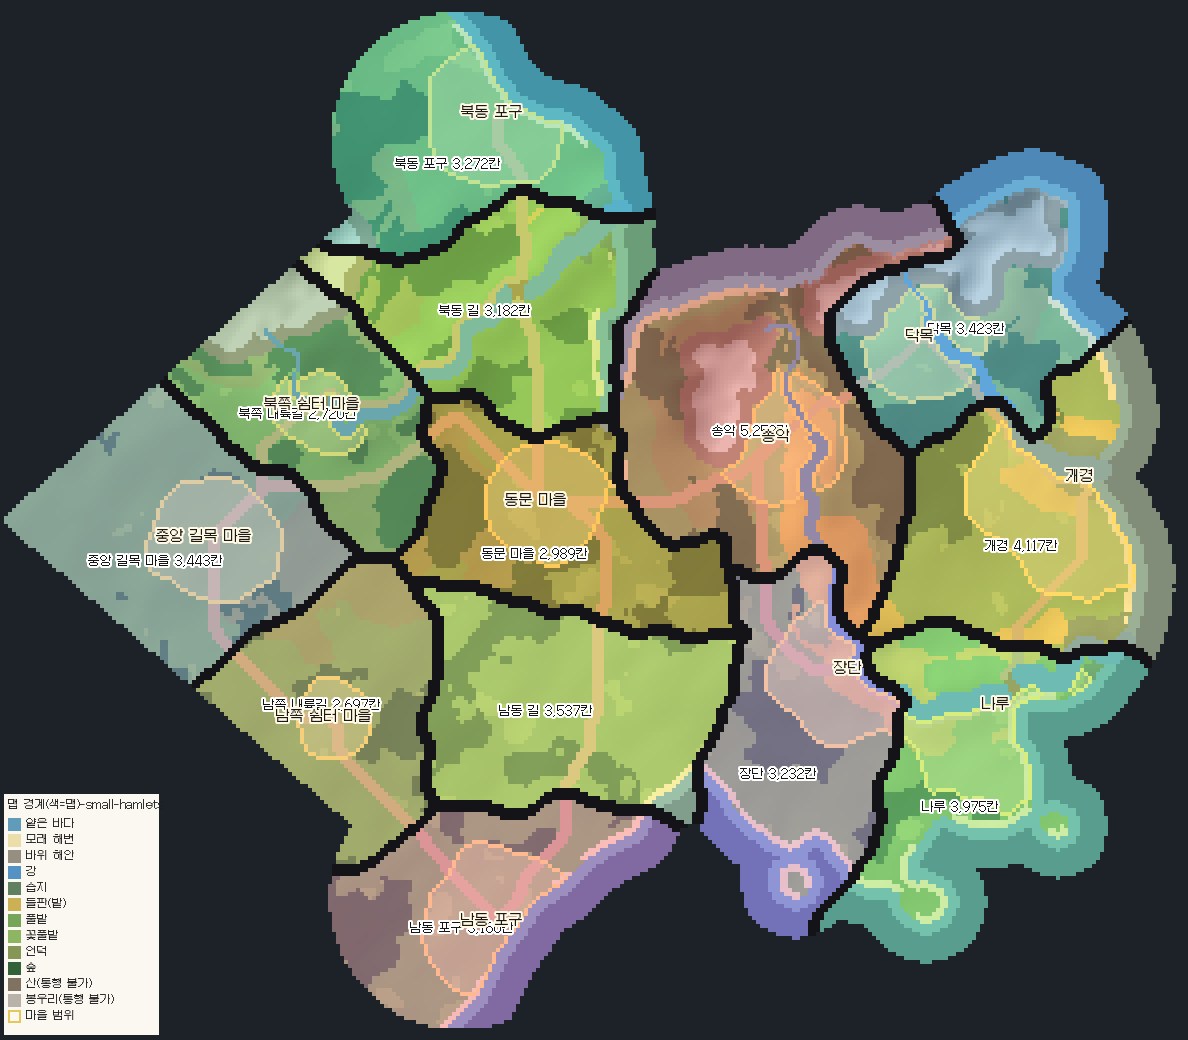
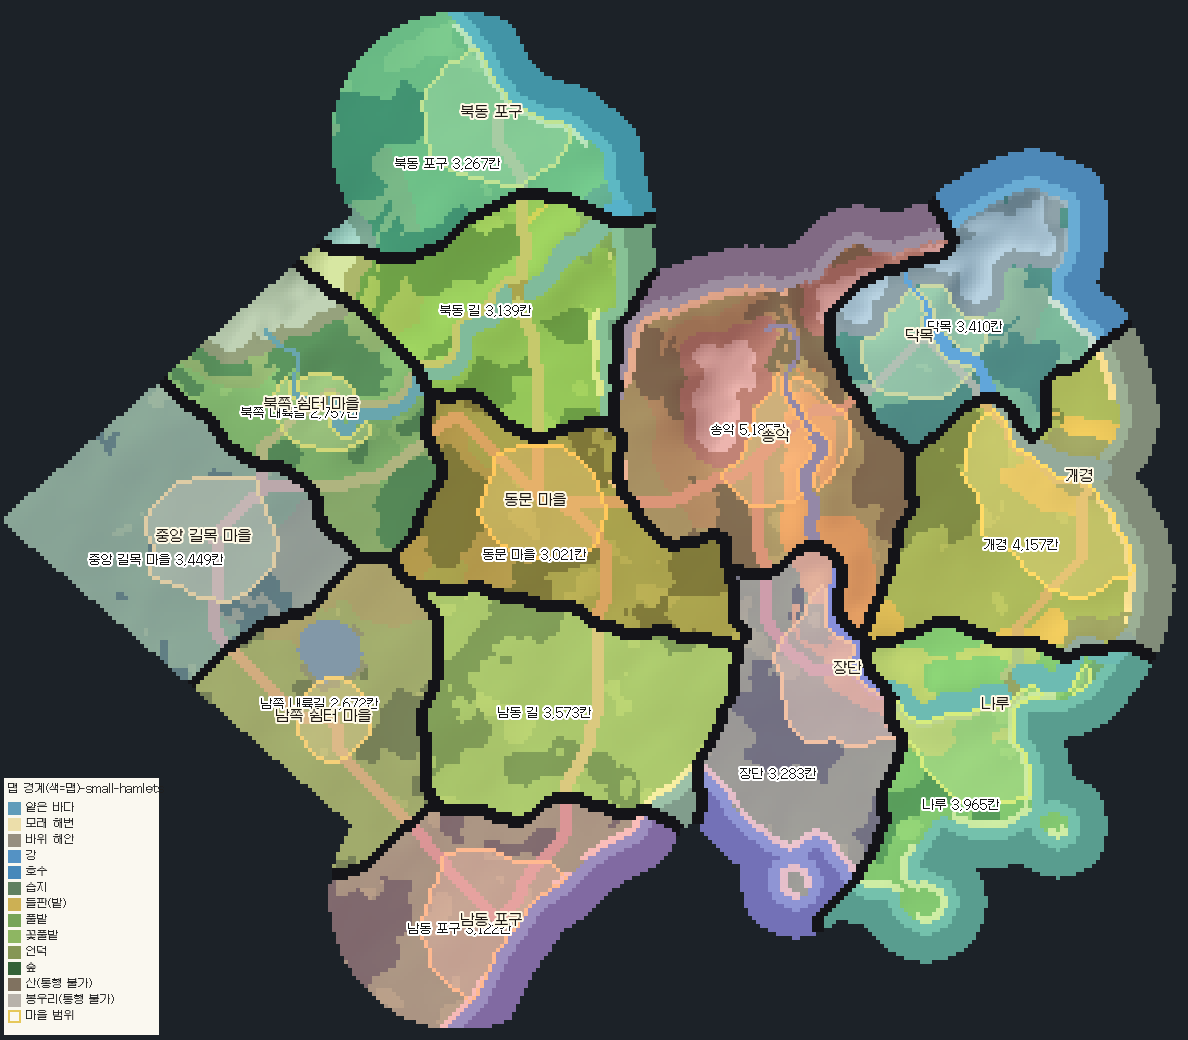
M1 v4: add lake north of south rest hamlet
Claude-Session: https://claude.ai/code/session_01LeGdCGGAkPbpRa1d2kF6Yd

diff --git a/Tools/WorldLayout/terrain_v3.py b/Tools/WorldLayout/terrain_v3.py
@@ -24,12 +24,14 @@ SEED=7
 X0,Y0,W,H=0,-130,300,260   # 배열 좌표: ix=x-X0, iy=y-Y0
 
 # 지형 종류
-VOID,DEEP,SHALLOW,SAND,ROCKCOAST,RIVER,MARSH,FIELD,GRASS,MEADOW,HILL,FOREST,MOUNTAIN,PEAK,VILLAGE=range(15)
-NAMES=['밖','깊은 바다','얕은 바다','모래 해변','바위 해안','강','습지','들판(밭)','풀밭','꽃풀밭','언덕','숲','산(통행 불가)','봉우리(통행 불가)','마을 범위']
+VOID,DEEP,SHALLOW,SAND,ROCKCOAST,RIVER,MARSH,FIELD,GRASS,MEADOW,HILL,FOREST,MOUNTAIN,PEAK,VILLAGE,LAKE=range(16)
+NAMES=['밖','깊은 바다','얕은 바다','모래 해변','바위 해안','강','습지','들판(밭)','풀밭','꽃풀밭','언덕','숲','산(통행 불가)','봉우리(통행 불가)','마을 범위','호수']
 COLORS={DEEP:(52,98,140),SHALLOW:(96,156,186),SAND:(236,222,170),ROCKCOAST:(150,142,128),RIVER:(84,146,196),
         MARSH:(96,128,96),FIELD:(204,176,84),GRASS:(118,164,88),MEADOW:(142,182,98),HILL:(134,150,86),
-        FOREST:(52,98,56),MOUNTAIN:(128,114,96),PEAK:(184,178,170),VILLAGE:(210,190,140),VOID:(28,34,40)}
-BLOCKED={DEEP,SHALLOW,RIVER,MOUNTAIN,PEAK,ROCKCOAST}
+        FOREST:(52,98,56),MOUNTAIN:(128,114,96),PEAK:(184,178,170),VILLAGE:(210,190,140),VOID:(28,34,40),LAKE:(70,136,186)}
+BLOCKED={DEEP,SHALLOW,RIVER,MOUNTAIN,PEAK,ROCKCOAST,LAKE}
+# 호수(세계 좌표 중심, 대략 면적): 남쪽 쉼터 마을 북쪽(2026-10-27 은샘 제안)
+LAKES=[dict(label='남쪽 호수',center=(82,32),area=170)]
 # 마을 목표 면적(칸): 수도는 크게, 중앙 마을은 장터 광장·이벤트 마당·시설이 들어갈 만큼(WorldLayout 3절 약 2,060)
 VILLAGE_AREA={'goryeo/개경':1100,'goryeo/장단':700,'goryeo/나루':700,'goryeo/송악':650,'goryeo/닥목':600,
               'east/동문 마을':1400,'east/북동 포구':1400,'east/남동 포구':1400,'east/중앙 길목 마을':1500}
@@ -218,6 +220,18 @@ def build(layout):
         my,mx=idx(*ri['mouth']);yy,xx=np.ogrid[:H,:W];mouth_zone|=((yy-my)**2+(xx-mx)**2)<16**2
     t[L&mouth_zone&(d_river<=5)&(d_river>0)&(elev<.35)&(marsh_n>.45)]=MARSH
     t[river]=RIVER
+    # 호수: 노이즈로 가장자리를 흔든 둥근 물, 둘레는 습지·모래 조금
+    lake=np.zeros((H,W),bool);lake_n=noise((H,W),5,rng,2)
+    for lk in LAKES:
+        cy,cx=idx(*lk['center']);rad=math.sqrt(lk['area']/math.pi)
+        yy_,xx_=np.ogrid[:H,:W];dd=np.sqrt((yy_-cy)**2+(xx_-cx)**2)
+        m=(dd<rad*(1+.45*(lake_n-.5)))&land
+        lab,n=ndimage.label(m)
+        if n:m=lab==(1+int(np.argmax(ndimage.sum(np.ones_like(lab),lab,range(1,n+1)))))
+        lake|=m;lk['cells']=int(m.sum())
+    shore=ndimage.binary_dilation(lake,iterations=2)&land&~lake&~river
+    t[shore&(marsh_n>.55)]=MARSH;t[shore&(marsh_n<.25)]=SAND
+    t[lake]=LAKE
 
     # 4) 마을 자리와 범위(v4): 승인 위치 가까이에서 마을이 들어서기 좋은 땅을 고르고, 둥글고 자연스러운 모양으로 넓힌다
     region_of=np.full((H,W),'',object)
@@ -276,7 +290,7 @@ def partition(layout,w,road=None):
     passable=w['passable'];village=w['village'];village_info=w['villages']
     # 5) 맵 경계(v4): 마을(이동 구역은 쉼터·중간 지점)을 씨앗으로, 지형을 따라 퍼지는 거리로 땅을 나눈다.
     #    강·산을 건너는 비용을 크게 해 경계가 강·산줄기·숲 가장자리를 따르게 하고, 면적은 원래 목표에 맞춘다.
-    step_cost=np.ones((H,W));step_cost[t==RIVER]=25;step_cost[np.isin(t,[MOUNTAIN,PEAK])]=20;step_cost[t==FOREST]=2.6
+    step_cost=np.ones((H,W));step_cost[t==LAKE]=25;step_cost[t==RIVER]=25;step_cost[np.isin(t,[MOUNTAIN,PEAK])]=20;step_cost[t==FOREST]=2.6
     step_cost[t==MARSH]=4;step_cost[t==HILL]=2.2;step_cost[sea]=1.5
     if road is not None:step_cost[road]=.45   # 길을 따라 빨리 퍼짐: 경계가 길 중간에서 길을 가로지르게
     targets={k:layout.maps[k]['area'] for k in keys}
@@ -414,7 +428,7 @@ def render(w,path,road=None,scale=4,title='',tint=False):
     # 언덕 그림자(북서쪽 빛)
     gy,gx=np.gradient(ndimage.gaussian_filter(elev,1.2))
     shade=np.clip(1+(-gx-gy)*6,0.72,1.22)
-    landish=w['land']&(t!=RIVER)
+    landish=w['land']&(t!=RIVER)&(t!=LAKE)
     rgb[landish]*=shade[landish,None]
     if road is not None:
         rgb[road['road']&(t==RIVER)]=(150,110,70)          # 다리
@@ -445,7 +459,7 @@ def render(w,path,road=None,scale=4,title='',tint=False):
         cx,cy=(v['center'][0]-X0-x0)*scale,(v['center'][1]-Y0-y0)*scale
         d.text((cx-len(v['label'])*7,cy-8),v['label'],font=f,fill=(30,24,20),stroke_width=2,stroke_fill=(255,250,230))
     # 범례
-    items=[SHALLOW,SAND,ROCKCOAST,RIVER,MARSH,FIELD,GRASS,MEADOW,HILL,FOREST,MOUNTAIN,PEAK]
+    items=[SHALLOW,SAND,ROCKCOAST,RIVER,LAKE,MARSH,FIELD,GRASS,MEADOW,HILL,FOREST,MOUNTAIN,PEAK]
     lx,ly=8,img.height-16*len(items)-30
     d.rectangle((lx-4,ly-24,lx+150,img.height-6),fill=(250,248,240))
     d.text((lx,ly-20),title,font=fs,fill=(30,30,30))
@@ -467,7 +481,7 @@ def main():
     assert int(w['land'].sum())==land_before,'육지 면적이 바뀜'
     r=roads(layout,w) if a.roads else None
     partition(layout,w,r['center'] if r else None)
-    counts={NAMES[k]:int((w['t']==k).sum()) for k in range(1,15)}
+    counts={NAMES[k]:int((w['t']==k).sum()) for k in range(1,16)}
     render(w,OUT/f'terrain-villages{sfx}.png',title='M1 지형 v3 + 마을 범위'+sfx)
     report=dict(seed=SEED,landCells=land_before,classCounts=counts,rivers=w['rivers'],villages=w['villages'],maps=w['maps'])
     if r:
